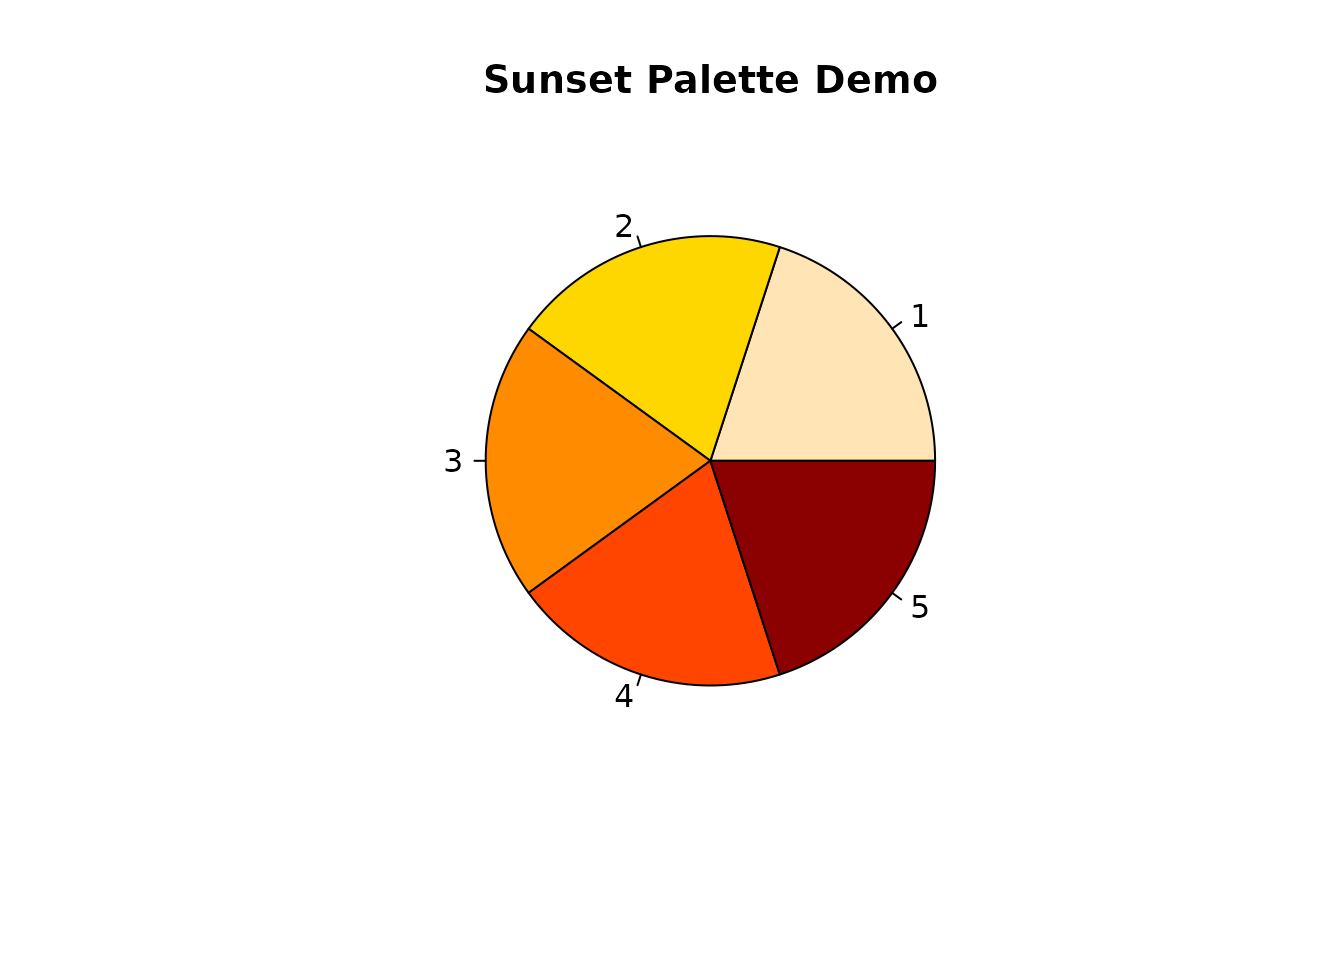
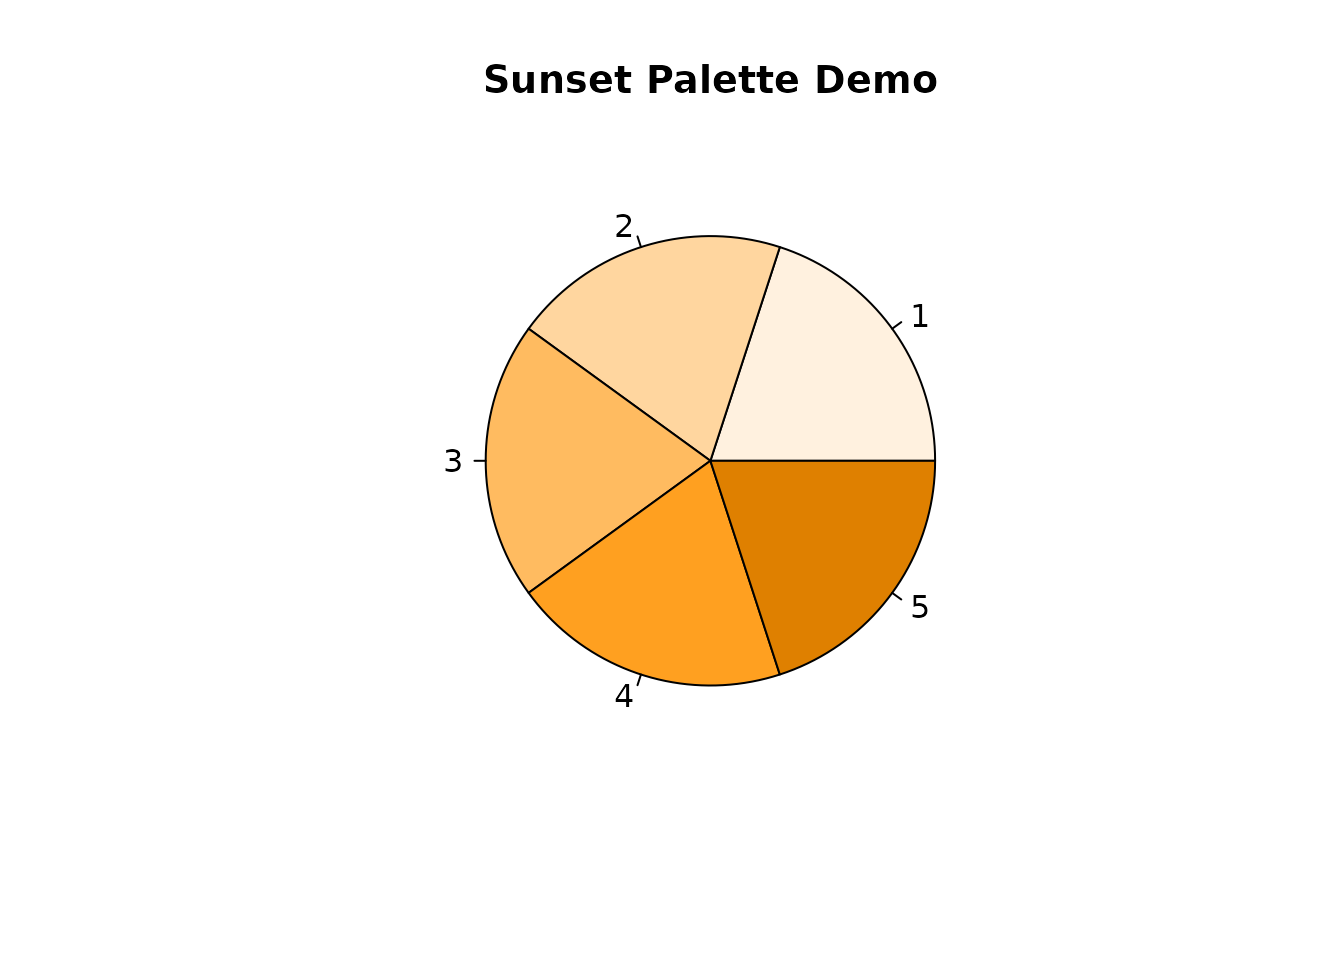
Deploying to gh-pages from @ quadram-institute-bioscience/qipalette@86b37fcd7d6c70455f71be5c86be49c22b0a2f54 🚀

Changed region(s): [[0.3438, 0.25, 0.7188, 0.7188]]

diff --git a/articles/introduction.html b/articles/introduction.html
@@ -119,13 +119,14 @@ the package functions and apply the palettes to your visualizations.</p>
 <span><span class="co"># Get a specific number of colors</span></span>
 <span><span class="va">sunset_colors_8</span> <span class="op">&lt;-</span> <span class="fu"><a href="../reference/get_palette.html">get_palette</a></span><span class="op">(</span><span class="st">"sunset"</span>, n <span class="op">=</span> <span class="fl">8</span><span class="op">)</span></span>
 <span><span class="va">sunset_colors_8</span></span>
-<span><span class="co">#&gt; [1] "#FFE4B5" "#FFDC4D" "#FFCC00" "#FFA100" "#FF7700" "#FF4F00" "#CD2700"</span></span>
-<span><span class="co">#&gt; [8] "#8B0000"</span></span>
+<span><span class="co">#&gt; [1] "#fff1df" "#ffd69f" "#ffbb60" "#ffa020" "#df8000" "#9f5c00" "#603700"</span></span>
+<span><span class="co">#&gt; [8] "#201200"</span></span>
 <span></span>
 <span><span class="co"># Reverse the palette</span></span>
 <span><span class="va">sunset_colors_rev</span> <span class="op">&lt;-</span> <span class="fu"><a href="../reference/get_palette.html">get_palette</a></span><span class="op">(</span><span class="st">"sunset"</span>, reverse <span class="op">=</span> <span class="cn">TRUE</span><span class="op">)</span></span>
 <span><span class="va">sunset_colors_rev</span></span>
-<span><span class="co">#&gt; [1] "#8B0000" "#FF4500" "#FF8C00" "#FFD700" "#FFE4B5"</span></span></code></pre></div>
+<span><span class="co">#&gt; [1] "#201200" "#603700" "#9f5c00" "#df8000" "#ffa020" "#ffbb60" "#ffd69f"</span></span>
+<span><span class="co">#&gt; [8] "#fff1df"</span></span></code></pre></div>
 </div>
 <div class="section level3">
 <h3 id="using-with-base-r-graphics">Using with Base R Graphics<a class="anchor" aria-label="anchor" href="#using-with-base-r-graphics"></a>

diff --git a/reference/get_palette.html b/reference/get_palette.html
@@ -88,12 +88,12 @@ to produce the desired number of colors.</p></dd>
     <div id="ref-examples">
     <h2>Examples</h2>
     <div class="sourceCode"><pre class="sourceCode r"><code><span class="r-in"><span><span class="fu">get_palette</span><span class="op">(</span><span class="st">"sunset"</span>, <span class="fl">3</span><span class="op">)</span></span></span>
-<span class="r-out co"><span class="r-pr">#&gt;</span> [1] "#FFE4B5" "#FFD700" "#FF8C00"</span>
+<span class="r-out co"><span class="r-pr">#&gt;</span> [1] "#fff1df" "#ffd69f" "#ffbb60"</span>
 <span class="r-in"><span><span class="fu">get_palette</span><span class="op">(</span><span class="st">"qicolors"</span>, <span class="fl">10</span><span class="op">)</span></span></span>
 <span class="r-out co"><span class="r-pr">#&gt;</span>  [1] "#009681" "#78B02B" "#899318" "#333F48" "#9B432D" "#A1642A" "#48A23F"</span>
 <span class="r-out co"><span class="r-pr">#&gt;</span>  [8] "#C19F27" "#AA9140" "#00778B"</span>
 <span class="r-in"><span><span class="fu">get_palette</span><span class="op">(</span><span class="st">"forest"</span>, <span class="fl">5</span>, reverse <span class="op">=</span> <span class="cn">TRUE</span><span class="op">)</span></span></span>
-<span class="r-out co"><span class="r-pr">#&gt;</span> [1] "#2F4F4F" "#006400" "#228B22" "#32CD32" "#ADFF2F"</span>
+<span class="r-out co"><span class="r-pr">#&gt;</span> [1] "#009681" "#00e6c5" "#4dffe6" "#b3fff4" "#eeeeee"</span>
 </code></pre></div>
     </div>
   </div>
